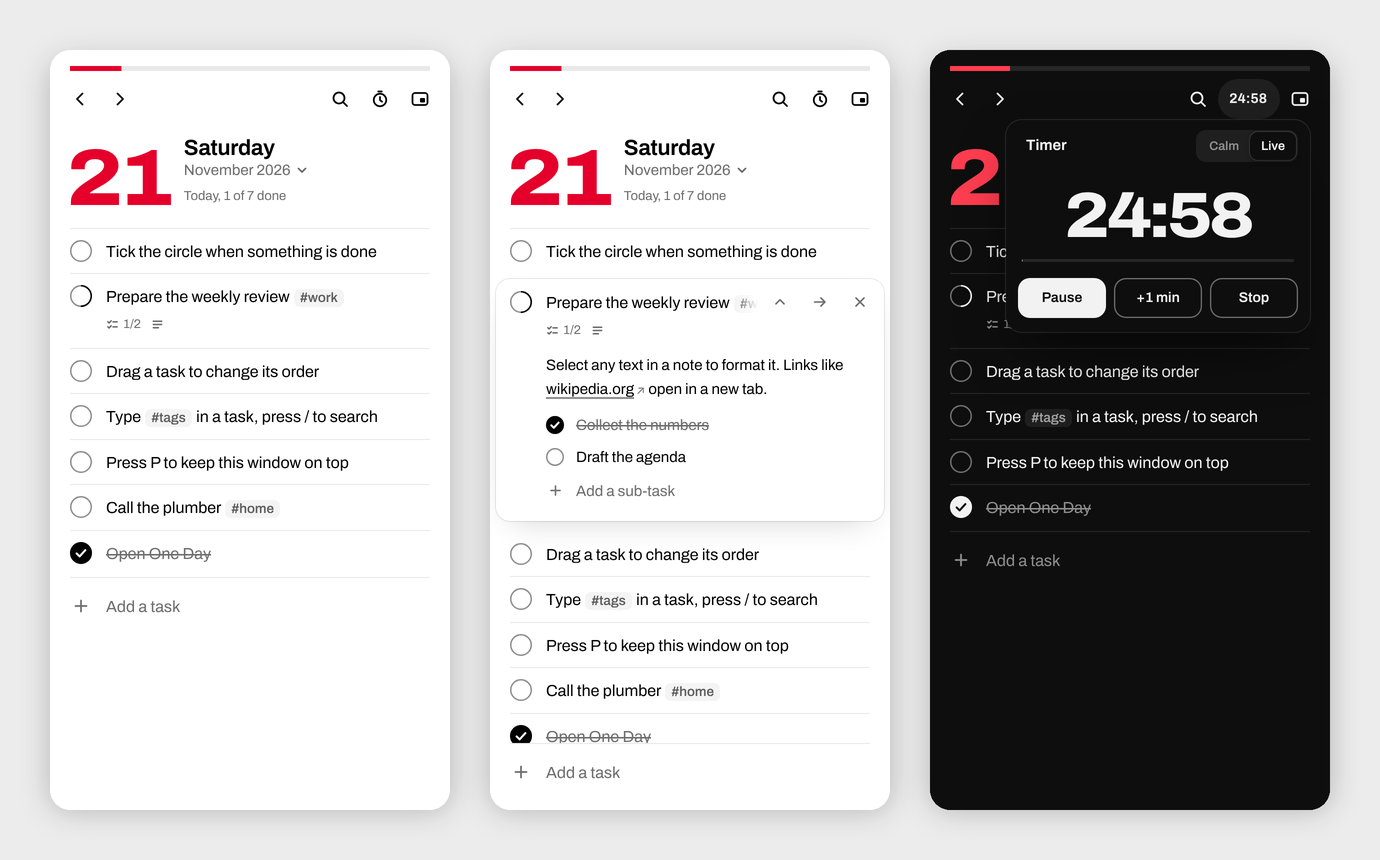
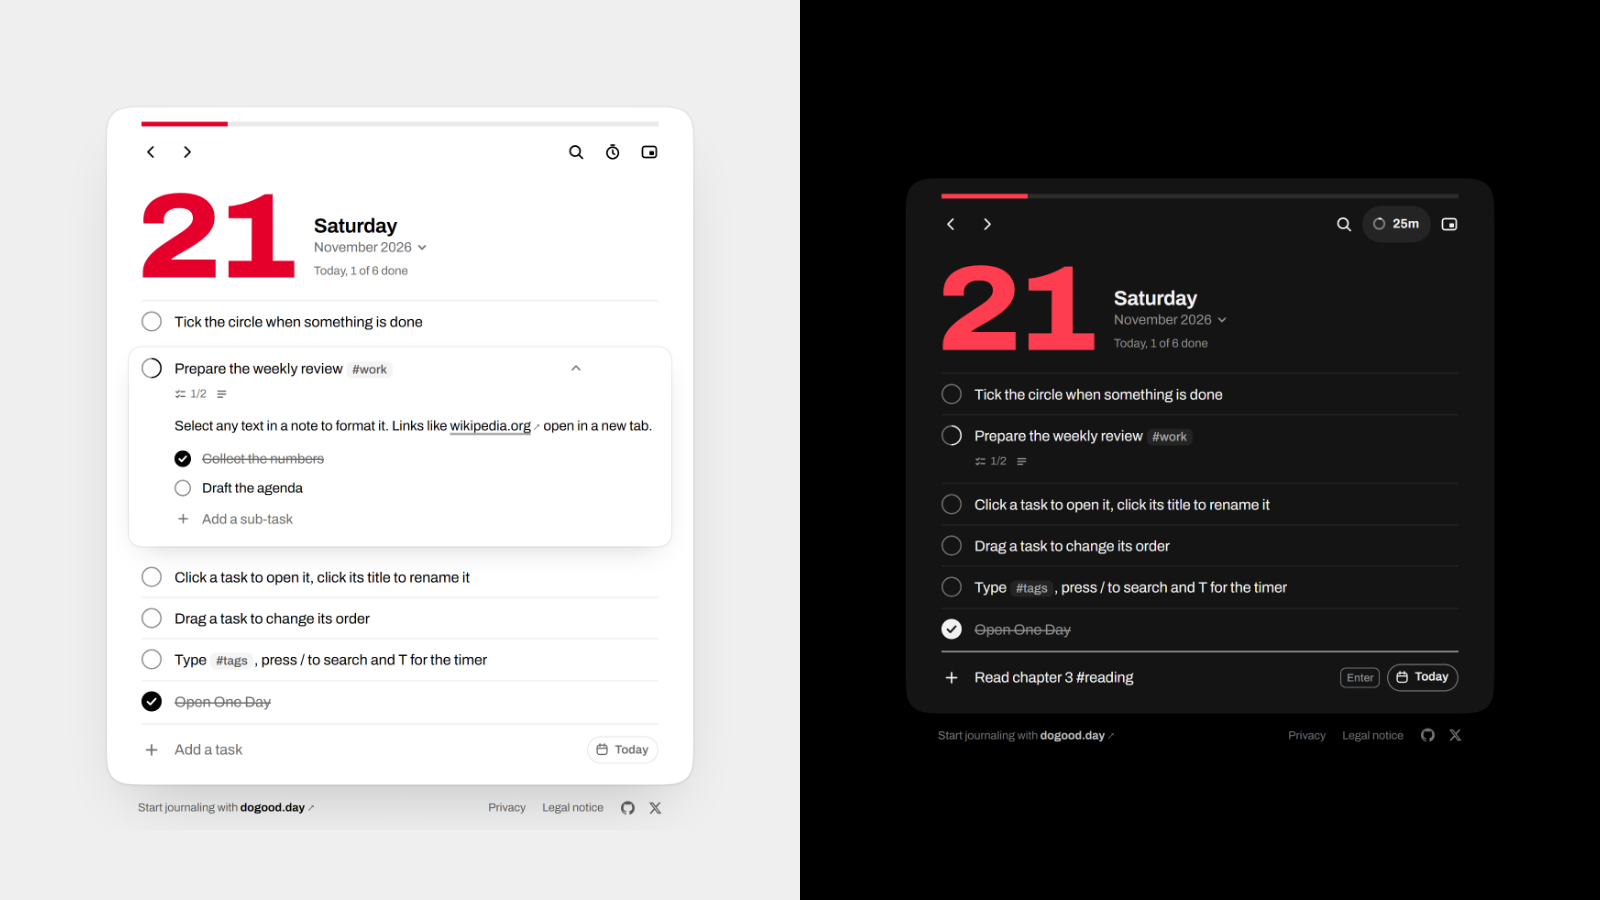
Update README, SECURITY and the hero image

diff --git a/README.md b/README.md
@@ -2,136 +2,121 @@
 
 A calm, minimalist task list that shows **one day at a time**, floats above your other windows, and keeps your data on your device.
 
-![One Day in light mode, with an open task card, and in dark mode with the timer running](docs/hero.png)
+![One Day in light mode with an open task card, and in dark mode with the timer running](docs/hero.png)
 
-One Day is a single-page web app with no framework, no dependencies, no account and no tracking. Open it, write down what today is for, tick things off, and move on to tomorrow.
+One Day is a single-page web app with no framework, no runtime dependencies, no account and no tracking. Open it, write down what today is for, tick things off, and move on to tomorrow.
 
 ## Features
 
 - **One day on screen.** Move between days with the arrows, a swipe, a trackpad gesture or the month picker. The date rolls like a counter, and the thick rule at the top fills up as you finish the day.
-- **Tasks that feel physical.** Tick, edit in place, drag to reorder, send to tomorrow, delete. Every action can be undone, and every motion is driven by springs.
-- **Notes and sub-tasks.** Open any task into a card with a rich-text note (bold, italic, strikethrough, code, lists, links) and a checklist. The task's circle fills as the checklist gets done.
-- **Tags.** Type `#anything` in a task or sub-task. Tags autocomplete, and clicking one searches for it.
+- **A sheet that fits its content.** On a large screen the day is a card on the page. It grows and shrinks on a spring as tasks come and go. On a phone it fills the screen.
+- **Add to any day.** The composer adds to the day on screen. Its day chip sends a task to another day (Today, Tomorrow, Next week or any date) without leaving the one you are on.
+- **Tasks that feel physical.** Tick, drag to reorder, send to tomorrow, delete. Every action can be undone, and every motion is driven by springs.
+- **Notes and sub-tasks.** Click a task to open it: a rich-text note (bold, italic, strikethrough, code, lists, links) and a checklist. The task's circle fills as the checklist gets done. Click the title of an open task, or double-click any task, to rename it.
+- **Tags.** Type `#anything` in a task or a sub-task. Tags autocomplete, and clicking one searches for it.
 - **Search.** Instant, accent-insensitive search across every day, every note and every sub-task.
-- **Timer.** A countdown in two moods: *Calm* (minutes, with a line that fills each minute) or *Live* (rolling minutes and seconds).
-- **Keep on top.** Pop the app into a small window that stays above everything else (Chrome and Edge).
+- **Timer.** A countdown in two moods: _Calm_ (minutes, with a line that fills each minute) or _Live_ (rolling minutes and seconds).
+- **Keep on top.** Pop the app into a small window that stays above everything else (Chrome and Edge on desktop).
 - **Leftovers.** Unfinished tasks from earlier days can be brought to today in one click.
-- **Light and dark**, following your system.
-- **Works offline** once installed, and installs as an app.
+- **Light and dark**, following your system. **Works offline** once installed, and installs as an app.
 
 ## Keyboard
 
-| Action | Keys |
-| --- | --- |
-| Previous or next day | <kbd>←</kbd> <kbd>→</kbd> (or <kbd>Alt</kbd> + arrows while typing) |
-| Back to today | <kbd>T</kbd> |
-| New task | <kbd>N</kbd> |
-| Search | <kbd>/</kbd> or <kbd>Ctrl</kbd>/<kbd>⌘</kbd> <kbd>K</kbd> |
-| Keep on top | <kbd>P</kbd> |
-| Undo, redo | <kbd>Ctrl</kbd>/<kbd>⌘</kbd> <kbd>Z</kbd>, <kbd>Ctrl</kbd> <kbd>Y</kbd> or <kbd>⌘</kbd> <kbd>⇧</kbd> <kbd>Z</kbd> |
-| Move between tasks | <kbd>↑</kbd> <kbd>↓</kbd> |
-| Reorder a task | <kbd>Alt</kbd> <kbd>↑</kbd> <kbd>↓</kbd> |
-| Edit a task | <kbd>Enter</kbd> on its circle |
-| Open its note | <kbd>Tab</kbd> while editing the title |
-| Delete a task | <kbd>Delete</kbd> or <kbd>Backspace</kbd> on its circle |
-| Format a note | <kbd>⌘</kbd> <kbd>B</kbd> / <kbd>I</kbd> / <kbd>E</kbd> / <kbd>K</kbd>, or Markdown: `**bold**`, `*italic*`, `` `code` ``, `~~strike~~`, `- list` |
+| Action                            | Keys                                                                                                       |
+| --------------------------------- | ---------------------------------------------------------------------------------------------------------- |
+| Previous or next day              | <kbd>←</kbd> <kbd>→</kbd> (or <kbd>Alt</kbd> + arrows while typing)                                        |
+| Back to today                     | <kbd>D</kbd> or <kbd>Home</kbd>                                                                            |
+| Timer                             | <kbd>T</kbd>                                                                                               |
+| New task                          | <kbd>N</kbd>, then <kbd>Tab</kbd> to the day chip to pick another day                                      |
+| Search                            | <kbd>/</kbd> or <kbd>Ctrl</kbd>/<kbd>⌘</kbd> <kbd>K</kbd>                                                  |
+| Keep on top                       | <kbd>P</kbd>                                                                                               |
+| Undo, redo                        | <kbd>Ctrl</kbd>/<kbd>⌘</kbd> <kbd>Z</kbd>, <kbd>Ctrl</kbd> <kbd>Y</kbd> or <kbd>⌘</kbd> <kbd>⇧</kbd> <kbd>Z</kbd> |
+| Move between tasks                | <kbd>↑</kbd> <kbd>↓</kbd>                                                                                  |
+| Reorder a task                    | <kbd>Alt</kbd> <kbd>↑</kbd> <kbd>↓</kbd>                                                                   |
+| Rename a task                     | <kbd>Enter</kbd> on its circle                                                                             |
+| Open its note while renaming      | <kbd>Tab</kbd>                                                                                             |
+| Delete a task                     | <kbd>Delete</kbd> or <kbd>Backspace</kbd> on its circle                                                    |
+| Format a note                     | <kbd>⌘</kbd> <kbd>B</kbd> / <kbd>I</kbd> / <kbd>E</kbd> / <kbd>K</kbd>, or Markdown: `**bold**`, `*italic*`, `` `code` ``, `~~strike~~`, `- list` |
+
+On a phone: tap a task to open it, hold then drag to reorder, swipe sideways to change day.
 
 ## Privacy
 
-- **Your tasks never leave your device.** They are stored in your browser's `localStorage` for this site. There is no server, database or account behind the app, so the person hosting it cannot see them.
-- **No cookies, no analytics, no third-party requests.** The font is bundled with the app, and the Content Security Policy only allows the app's own files to load.
+- **Your tasks never leave your device.** They are stored in your browser's `localStorage` for this site. There is no server, database or account behind the app, so whoever hosts it cannot see them.
+- **No cookies, no analytics, no third-party requests.** The font is bundled with the app, and the Content Security Policy only lets the app's own files load. The footer links are plain links: nothing is contacted until you click one.
 - **The service worker caches the app's files only**, so it opens instantly and works offline. It never reads your tasks.
-- **Backups are yours.** Search → *Export backup* downloads a JSON file. *Import backup* merges one back, without overwriting existing tasks.
+- **Backups are yours.** Search → _Export backup_ downloads a JSON file. _Import backup_ merges one back without overwriting existing tasks.
 - **Erasing everything:** clear this site's data in your browser settings.
 
-The hosting provider sees ordinary request logs (IP address, browser), like for any website. If you publish the app for other people, mention your host in your site's legal notice.
+The hosting provider sees ordinary request logs (IP address, browser), as for any website. If you publish your own copy, link your legal notice and privacy policy from the footer in `public/index.html`.
 
 ## Security
 
 - Rich text is cleaned through an allow-list (`b`, `i`, `u`, `s`, `code`, `a`, lists, line breaks). Every other tag and every attribute is dropped. Links are limited to `https`, `http` and `mailto`, and open with `rel="noopener noreferrer"`.
-- Everything else is inserted as text, never as HTML.
-- A strict Content Security Policy blocks inline scripts, remote code and outgoing connections. On Cloudflare Pages or Netlify, [`_headers`](_headers) adds HSTS, `frame-ancestors 'none'`, `nosniff`, a no-referrer policy and a locked-down Permissions-Policy.
-- Zero runtime dependencies, so there is no supply chain to compromise.
+- Everything else is inserted as text, never as HTML. Ids from storage or backups are checked before they reach a selector.
+- A strict Content Security Policy blocks inline scripts, remote code and outgoing connections. On Cloudflare Pages, [`public/_headers`](public/_headers) adds HSTS, `frame-ancestors 'none'`, `nosniff`, a no-referrer policy and a locked-down Permissions-Policy.
+- No runtime dependencies, so there is no supply chain to compromise. The dev dependencies (Playwright, axe-core) are only used for tests and icons.
 
 Found a problem? See [SECURITY.md](SECURITY.md).
 
 ## Accessibility
 
-One Day targets **WCAG 2.2 AA**.
+One Day targets **WCAG 2.2 AA**: everything works with a keyboard (including a keyboard alternative to dragging), controls have accessible names, focus is visible and returns where it came from, text meets 4.5:1 contrast, and all motion is turned off when _Reduce motion_ is on.
 
-- Everything works with a keyboard, including a keyboard alternative to dragging.
-- Controls have accessible names, and checkboxes, dialogs and live regions use proper roles.
-- Focus is visible and returns where it came from.
-- Text meets 4.5:1 contrast, and controls meet 3:1.
-- All motion is turned off when *Reduce motion* is on.
-
-An automated [axe-core](https://github.com/dequelabs/axe-core) audit reports no violations on the main view (light and dark), an open task card, search and the timer. Automated checks cover a subset of WCAG, so testing with VoiceOver or NVDA is still worthwhile.
+The test suite runs [axe-core](https://github.com/dequelabs/axe-core) on the main view, an open card, search, the timer and the day picker, in light and dark. Automated checks cover a subset of WCAG, so testing with VoiceOver or NVDA is still worthwhile.
 
 ## Install it as an app
 
-Open the deployed site, then:
-
 - **Chrome or Edge:** click the install icon in the address bar.
-- **Safari on macOS:** *File → Add to Dock*.
-- **iPhone and iPad:** *Share → Add to Home Screen*.
+- **Safari on macOS:** _File → Add to Dock_.
+- **iPhone and iPad:** _Share → Add to Home Screen_.
 
-The installed app opens in its own window. In Chrome and Edge, press <kbd>P</kbd> to keep it on top of other windows. That uses the [Document Picture-in-Picture API](https://developer.chrome.com/docs/web-platform/document-picture-in-picture), which Safari and Firefox don't support yet.
+In Chrome and Edge on desktop, press <kbd>P</kbd> to keep the app on top of other windows. That uses the [Document Picture-in-Picture API](https://developer.chrome.com/docs/web-platform/document-picture-in-picture), which Safari and Firefox don't support yet.
 
 ## Deploy
 
-One Day is a static site with no build step: publish this folder as is.
+The site is the `public/` folder, served as is: there is no build step.
 
-### Cloudflare Pages (recommended)
+### Cloudflare Pages
 
-It's free, it applies the security headers from `_headers`, and it serves your own subdomain.
+1. In Cloudflare, go to **Workers & Pages → Create → Pages → Connect to Git** and pick this repository (private repositories work too).
+2. Framework preset **None**, build command empty, build output directory **`public`**. ([`wrangler.jsonc`](wrangler.jsonc) says the same.)
+3. **Custom domains → Set up a custom domain**, for example `day.example.com`. If the domain's DNS is on Cloudflare, the record is created for you; otherwise add a `CNAME` to `<project>.pages.dev`.
+4. Leave **Web Analytics** off and make sure **Rocket Loader** is off for the domain: both inject scripts that the Content Security Policy blocks.
 
-1. Push this folder to a GitHub repository.
-2. In Cloudflare, go to **Workers & Pages → Create → Pages → Connect to Git** and pick the repository.
-3. Leave *Framework preset* on **None** and the build command empty. Set the build output directory to `/`.
-4. Open **Custom domains → Set up a domain** and enter, for example, `day.example.com`.
-   - If your domain's DNS is on Cloudflare, the record is created for you.
-   - Otherwise, add a `CNAME` record at your DNS provider: name `day`, target `<project>.pages.dev`.
-
-### GitHub Pages
-
-1. Push to a **public** repository. Pages on private repositories needs a paid plan.
-2. Open **Settings → Pages → Deploy from a branch**, then choose `main` and `/ (root)`.
-3. Enter your custom domain, add a `CNAME` record `day` → `<username>.github.io`, then tick **Enforce HTTPS**.
-
-GitHub Pages has a soft limit of 100 GB of bandwidth a month and a 1 GB site size. It also can't send custom HTTP headers, so only the policy in `index.html` applies there.
+Every push to `main` deploys; every other branch gets a preview URL.
 
 ## Develop
 
 ```sh
-python3 -m http.server 8000   # or: npx serve .
-```
-
-Then open <http://localhost:8000>. Edit `index.html`, `app.css` and `app.js`; there is nothing to compile.
-
-To build a single self-contained file that opens straight from disk:
-
-```sh
-node scripts/build-standalone.mjs   # writes dist/one-day.html
+npm install        # dev tools only: Playwright and axe-core
+npm start          # http://localhost:8000, with the same headers as production
+npm test           # end-to-end and accessibility tests (Chromium)
 ```
 
 ```
-index.html              markup
-app.css                 styles, light and dark
-app.js                  the whole app
-sw.js                   offline cache for the app's own files
-manifest.webmanifest    install metadata
-_headers                security headers (Cloudflare Pages, Netlify)
-fonts/                  Archivo, self-hosted (SIL Open Font License)
-icons/                  app icons
-scripts/                standalone build
+public/                 the site
+  index.html            markup
+  app.css               styles, light and dark
+  app.js                the whole app
+  sw.js                 offline cache for the app's own files
+  manifest.webmanifest  install metadata
+  _headers              security headers (Cloudflare Pages)
+  fonts/                Archivo, self-hosted (SIL Open Font License)
+  icons/, favicon.ico   generated by scripts/icons.mjs
+scripts/
+  serve.mjs             local server that applies _headers
+  icons.mjs             draws the icon and writes every size
+  build-standalone.mjs  one self-contained HTML file (dist/one-day.html)
+tests/                  Playwright tests
 ```
 
-After changing any file the service worker caches, bump `CACHE` in `sw.js` so installed copies update.
+After changing any file the service worker caches, bump `CACHE` in `public/sw.js` so installed copies update.
 
 ## Browser support
 
-Current Chrome, Edge, Safari and Firefox. Keep-on-top needs Chrome or Edge 116 or later. Spring easing uses CSS `linear()` and falls back to standard curves in older browsers.
+Current Chrome, Edge, Safari and Firefox. Keep-on-top needs Chrome or Edge 116 or later on desktop. Spring easing uses CSS `linear()` and falls back to standard curves in older browsers; continuous card corners use `corner-shape` where it exists.
 
 ## License
 
-[MIT](LICENSE). The Archivo typeface is © The Archivo Project Authors, under the [SIL Open Font License 1.1](fonts/OFL.txt).
+The code is under the [MIT License](LICENSE). The One Day name and icon are not covered by it: if you publish a fork, give it your own. The Archivo typeface is © The Archivo Project Authors, under the [SIL Open Font License 1.1](public/fonts/OFL.txt).

diff --git a/SECURITY.md b/SECURITY.md
@@ -10,5 +10,7 @@ Please report it privately through GitHub's **Report a vulnerability** button on
 
 - Allow-list sanitizer for notes; everything else is inserted as text.
 - Imported backups go through the same validation and sanitizer as stored data.
-- Content Security Policy in `index.html` (and in `_headers` where supported): no inline or remote scripts, no outgoing connections.
+- Ids read from storage or backups are checked before they are used in selectors.
+- Content Security Policy in `public/index.html` (and in `public/_headers` on Cloudflare Pages): no inline or remote scripts, no outgoing connections.
 - No runtime dependencies.
+- `npm test` includes a malicious-backup test (script tags, event handlers, `javascript:` links, hostile ids) that must not run code or break the page.
